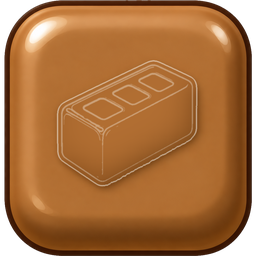
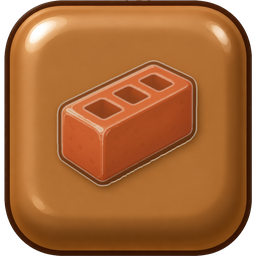
Half-visible block emblems, dark brown mine
Emblems show at 50% under their light outlines; the mine tray is dark
brown (#5a4532) on a darker screen (#3a2c20).

Claude-Session: https://claude.ai/code/session_01352siDM1CUZ1yFaoQqG9LA

Changed region(s): [[0.2188, 0.2188, 0.7812, 0.7188]]

diff --git a/unity/Assets/_Game/Scripts/View/Palette.cs b/unity/Assets/_Game/Scripts/View/Palette.cs
@@ -18,9 +18,9 @@ namespace Game.View
         public static readonly string[] BlockNames = { "зелёный", "коричневый", "серый", "синий", "фиолетовый" };
 
         public static readonly Color32 Background = new Color32(0xf3, 0xea, 0xd8, 0xff);
-        /// <summary>The mine is dark so the blocks stand out: night-violet tray on an even darker screen.</summary>
-        public static readonly Color32 BoardBack = new Color32(0x24, 0x20, 0x36, 0xff);
-        public static readonly Color32 MineBackground = new Color32(0x15, 0x12, 0x21, 0xff);
+        /// <summary>The mine is dark so the blocks stand out: dark brown tray on an even darker screen.</summary>
+        public static readonly Color32 BoardBack = new Color32(0x5a, 0x45, 0x32, 0xff);
+        public static readonly Color32 MineBackground = new Color32(0x3a, 0x2c, 0x20, 0xff);
         public static readonly Color32 MineText = new Color32(0xf0, 0xe6, 0xd6, 0xff);
 
         /// <summary>Colour of a part tier 1..7 in lists (index 0 unused).</summary>

diff --git a/tools/art/ghost_emblems.py b/tools/art/ghost_emblems.py
@@ -1,5 +1,5 @@
 # Turn block emblems into faint light outlines (originals in art_source/blocks).
-# Usage: python3 ghost_emblems.py art_source/blocks <out folder> [line alpha 0.6] [emblem opacity 0], then cut_blocks.py <out folder> unity/Assets/_Game/Art/Resources/Board
+# Usage: python3 ghost_emblems.py art_source/blocks <out folder> [line alpha 0.6] [emblem opacity 0.5], then cut_blocks.py <out folder> unity/Assets/_Game/Art/Resources/Board
 import sys, os, numpy as np
 from PIL import Image
 from scipy import ndimage as ndi
@@ -20,7 +20,7 @@ def emblem_mask(a):
 src, out = sys.argv[1], sys.argv[2]
 line_alpha = float(sys.argv[3]) if len(sys.argv) > 3 else 0.6
 # how much of the original emblem stays visible under the lines (0 = none)
-emblem_opacity = float(sys.argv[4]) if len(sys.argv) > 4 else 0.0
+emblem_opacity = float(sys.argv[4]) if len(sys.argv) > 4 else 0.5
 for c in ['blue','brown','gray','green','purple']:
     a=np.array(Image.open(f'{src}/block_{c}.png').convert('RGB')).astype(np.float32)
     m=emblem_mask(a)
